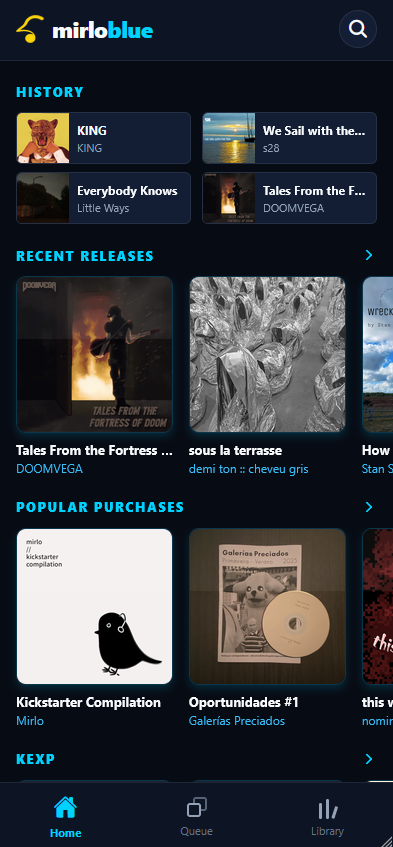
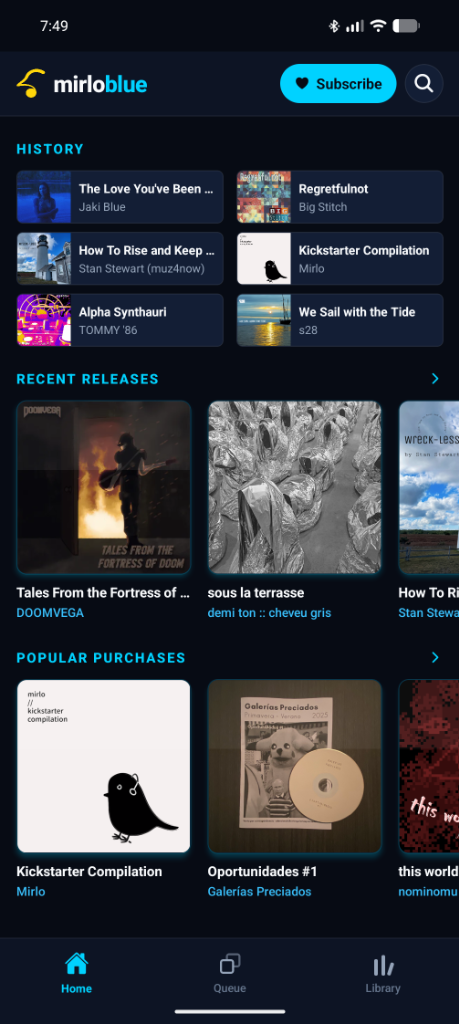
README: ethos and features, new preview

diff --git a/README.md b/README.md
@@ -1,17 +1,32 @@
 # Mirlo Blue
 
-A darker, bluer take on the [Mirlo](https://mirlo.space) app. Find music, play it, buy it, support the artists.
+A darker, bluer take on the [Mirlo](https://mirlo.space) app. Find music, play it, buy it, keep it. Support the artists.
 
 <img src="docs/preview.png" alt="Mirlo Blue home screen" width="300"/>
+
+## Why
+
+Music belongs to the people who make it and the people who love it. Not to the platforms in the middle.
+
+Mirlo is a cooperative home for independent music. Artists get paid. Fans own what they buy. No algorithm deciding who's worth hearing. This app is a front door to that.
+
+- **Pay artists.** Buy the album. Subscribe to Mirlo. The money goes to people, not shareholders.
+- **Own your music.** Downloads are real files on your phone. No rental. No "this album is no longer available."
+- **No lock-in.** Bring your own files too. They sit next to your Mirlo albums like equals.
+- **Share the wealth.** Previews of new releases keep playing when your music runs out. Free ads for artists, not for corporations.
 
 ## What's in it
 
 - **Nightwing look.** Dark blue, cyan, yellow bird.
+- **Subscribe.** One tap on Home to support Mirlo itself.
 - **Your library.** Everything you own, like, or wishlisted, plus downloads.
+- **Offline.** Download albums or single songs you own, as MP3 or FLAC. Open the app with no signal and your music is there. Home tells you you're offline and sends you to your library.
+- **Free albums.** Add a free album, then download it like any other.
+- **Bring your own music.** Add files from your phone. The app reads the tags (MP3, FLAC, M4A, Ogg, Opus) for title, artist, album, track number and cover. Untagged files use the file name.
+- **Edit your downloads.** Rename albums and songs, reorder tracks, swap covers, delete. All behind an Edit button so nothing goes by accident.
 - **A real queue.** Drag songs around. See what's next and where it's coming from.
-- **Never stops.** When your music runs out, it keeps going with previews of new releases. Free ads for artists.
+- **Never stops.** When your music runs out, it keeps going with previews of new releases.
 - **Radio.** KEXP (Seattle) and Carbon Sound (Minneapolis) right on the home screen. Tap any song to listen live.
-
 ## Run it
 
 You need [Node](https://nodejs.org) 20 or newer.
